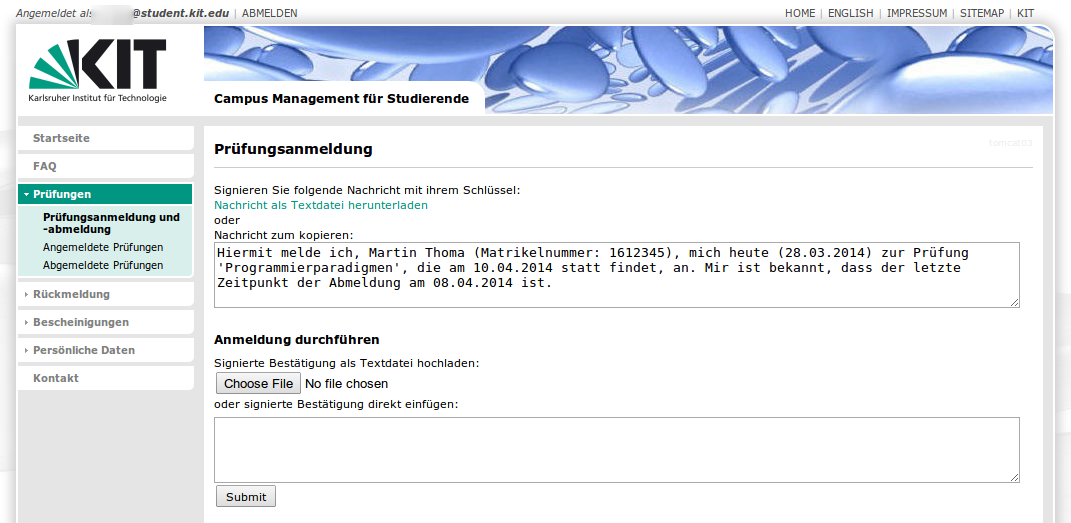
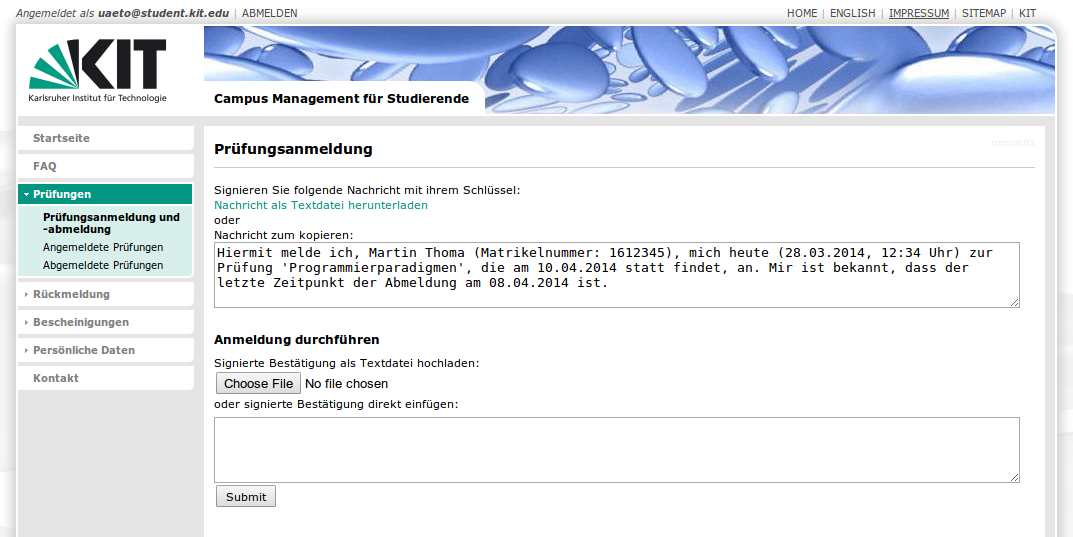
Zeitpunkt hinzugefügt

diff --git a/_posts/2014-04-08-pruefungsanmeldungen-am-kit.md b/_posts/2014-04-08-pruefungsanmeldungen-am-kit.md
@@ -62,7 +62,7 @@ Dies könnte z.B. mit PGP gemacht werden und würde dann etwa so aussehen:
 
 > -----BEGIN PGP SIGNED MESSAGE-----<br/>
 > Hash: SHA1<br/>
-> Martin Thoma (Matrikelnummer: 1612345) ist am 08.04.2014 zu folgenden
+> Martin Thoma (Matrikelnummer: 1612345) ist am 08.04.2014, 12:34 Uhr zu folgenden
 > Prüfungen angemeldet:<br/>
 > * Programmierparadigmen (Prüfungstermin: 10.04.2014; letzter Termin der Anmeldung: 31.03.2014; letzer Termin der Abmeldung: 08.04.2014)<br/>
 > * Kognitive Systeme (Prüfungstermin: 11.04.2014; letzter Termin der Anmeldung: 15.03.2014; letzer Termin der Abmeldung: 10.04.2014)<br/>
@@ -96,7 +96,7 @@ Student von der Prüfung abmeldet, bekommt er einen Text, z. B. etwas in dieser
 Richtung:
 
 > Ich, Martin Thoma (Matrikelnummer: 1612345), melde mich hiermit 
-> am 08.04.2014 von der Prüfung "Programmierparadigmen" 
+> am 08.04.2014 um 12:34 Uhr von der Prüfung "Programmierparadigmen" 
 > (Prüfungsdatum: 10.04.2014) ab.
 
 Diese muss er mit seinem privaten Schlüssel signieren. Die Uni muss daher den
@@ -106,7 +106,7 @@ an den Studenten verschickt:
 
 > -----BEGIN PGP SIGNED MESSAGE-----<br/>
 > Hash: SHA1<br/>
-> Martin Thoma (Matrikelnummer: 1612345) ist am 08.04.2014 zu folgenden
+> Martin Thoma (Matrikelnummer: 1612345) ist am 08.04.2014 um 12:34 Uhr zu folgenden
 > Prüfungen angemeldet:<br/>
 > * Programmierparadigmen (Prüfungstermin: 10.04.2014; letzter Termin der Anmeldung: 31.03.2014; letzer Termin der Abmeldung: 08.04.2014)<br/>
 > * Kognitive Systeme (Prüfungstermin: 11.04.2014; letzter Termin der Anmeldung: 15.03.2014; letzer Termin der Abmeldung: 10.04.2014)<br/>
@@ -284,11 +284,13 @@ und
 In diesem Artikel will ich nur die Prüfungsverwaltung diskutieren. Dennoch
 sollte darauf hingewiesen werden, dass Weiteres nicht gerade optimal gelöst ist:
 
-* Die **Anmeldungsfreischaltung** der Prüfungen finden zu sehr unterschiedlichen
-  Zeitpunkten statt. Bereits zu Semesterbegin sollte  folgendes bekannt sein:
+* **Informationspolitik**: Bereits zu Semesterbegin sollte  folgendes bekannt sein:
   * Zeitpunkt der Prüfung
   * Letztmöglicher Zeitpunkt der Anmeldung
   * Letztmöglicher Zeitpunkt der Abmeldung
+* Die **Anmeldungsfreischaltung** der Prüfungen finden zu sehr unterschiedlichen
+  Zeitpunkten statt. Die Anmeldung sollte breits zu Semesterbegin für alle
+  Klausuren möglich sein.
 * Die **Einsicht** ist immer schlecht organisiert. Da sich die Prüfungstermine
   größtenteils in der vorlesungsfreien Zeit befinden und darin aber stark 
   gestreut sind (manche sind zu Beginn, manche in der Mitte, manche am Ende)
